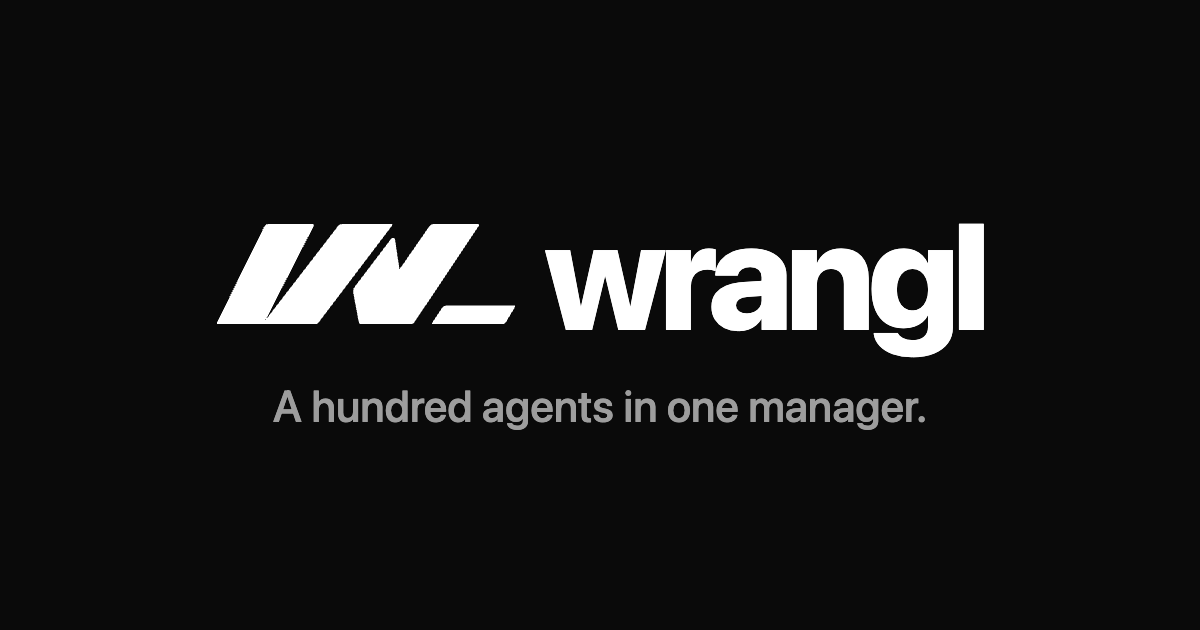
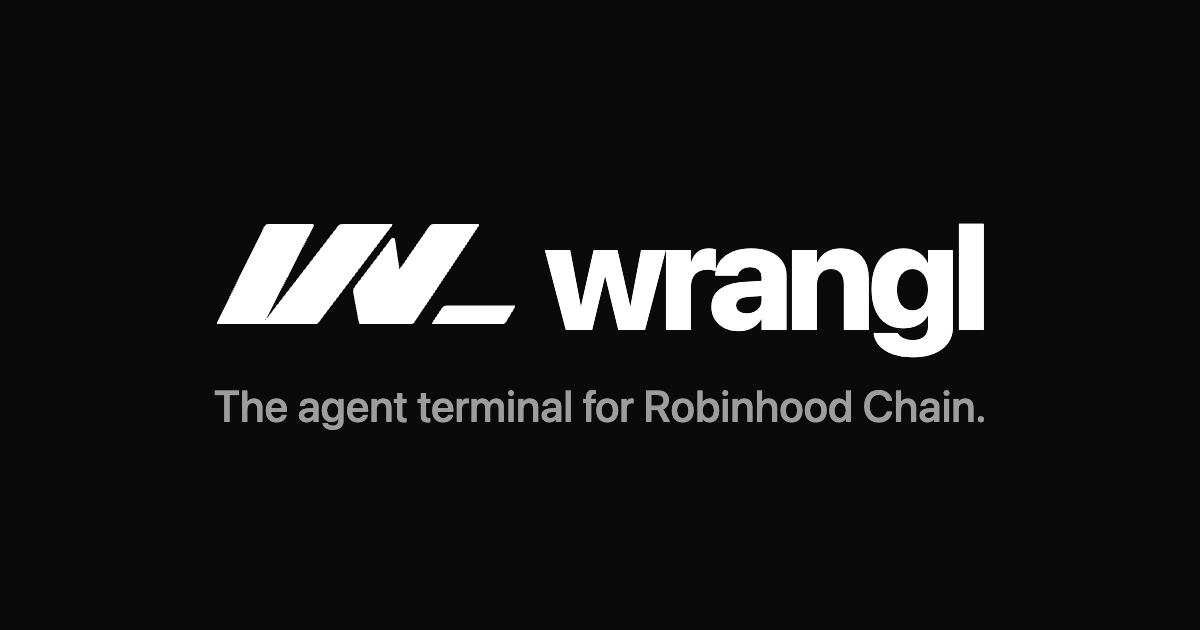
fix(landing): point seo tags at the live pages.dev origin
Canonicals, og:image, robots.txt and the sitemap pointed at wrangl.dev,
which does not resolve, so link cards on X had no image. One SITE_URL
now drives all of them; robots.txt and sitemap.xml are generated from
the prerendered pages. JSON-LD moves into the home page, drops the
stale softwareVersion and links the X and GitHub profiles. OG image
re-rendered with the current tagline.

Changed region(s): [[0.185, 0.6032, 0.8325, 0.6937]]

diff --git a/landing/index.html b/landing/index.html
@@ -3,45 +3,10 @@
   <head>
     <meta charset="UTF-8" />
     <link rel="icon" type="image/svg+xml" href="/favicon.svg" />
-    <link rel="canonical" href="https://wrangl.dev/" />
     <meta name="color-scheme" content="dark" />
     <meta name="theme-color" content="#0A0A0A" />
     <meta name="viewport" content="width=device-width, initial-scale=1.0" />
-    <title>Wrangl — the agent terminal for Robinhood Chain</title>
-    <meta name="description" content="Claude, Codex and 40+ agents in one workspace with terminals, git, SSH and a browser. They research and prepare trades on Robinhood Chain; you approve every one in your own wallet." />
-    <meta property="og:site_name" content="Wrangl" />
-    <meta property="og:url" content="https://wrangl.dev/" />
-    <meta property="og:title" content="Wrangl — the agent terminal for Robinhood Chain" />
-    <meta property="og:description" content="Claude, Codex and 40+ agents in one workspace with terminals, git, SSH and a browser. They research and prepare trades on Robinhood Chain; you approve every one in your own wallet." />
-    <meta property="og:type" content="website" />
-    <meta property="og:image" content="https://wrangl.dev/og-image.png" />
-    <meta property="og:image:width" content="1200" />
-    <meta property="og:image:height" content="630" />
-    <meta property="og:image:alt" content="Wrangl — the agent terminal for Robinhood Chain" />
-    <meta name="twitter:card" content="summary_large_image" />
-    <meta name="twitter:title" content="Wrangl — the agent terminal for Robinhood Chain" />
-    <meta name="twitter:description" content="Claude, Codex and 40+ agents in one workspace with terminals, git, SSH and a browser. They research and prepare trades on Robinhood Chain; you approve every one in your own wallet." />
-    <meta name="twitter:image" content="https://wrangl.dev/og-image.png" />
-    <!-- softwareVersion below is the latest stable release (https://github.com/wrangl-dev/wrangl/releases/latest). Update it when a new stable version ships. -->
-    <script type="application/ld+json">
-      {
-        "@context": "https://schema.org",
-        "@type": "SoftwareApplication",
-        "name": "Wrangl",
-        "applicationCategory": "DeveloperApplication",
-        "operatingSystem": "Windows, macOS, Linux",
-        "description": "Claude, Codex and 40+ agents in one workspace with terminals, git, SSH and a browser. They research and prepare trades on Robinhood Chain; you approve every one in your own wallet.",
-        "url": "https://wrangl.dev/",
-        "downloadUrl": "https://github.com/wrangl-dev/wrangl/releases/latest",
-        "softwareVersion": "0.4.52",
-        "license": "https://github.com/wrangl-dev/wrangl/blob/main/LICENSE",
-        "offers": {
-          "@type": "Offer",
-          "price": "0",
-          "priceCurrency": "USD"
-        }
-      }
-    </script>
+    <!-- Title, description, canonical, social tags and JSON-LD come from usePageMeta and the page components. -->
   </head>
   <body>
     <div id="app"></div>

diff --git a/landing/scripts/verify-prerender.ts b/landing/scripts/verify-prerender.ts
@@ -6,6 +6,7 @@
  */
 
 import fs from 'node:fs';
+import { SITE_URL } from '../src/lib/links';
 
 const lastUpdated = /Last updated:(?:<!-- -->| )*[A-Z][a-z]+ \d{1,2}, \d{4}/;
 
@@ -18,7 +19,10 @@ const checksByFile: Record<string, (string | RegExp)[]> = {
     'Check a token before you buy',
     'href="/features/"',
     'href="/install/"',
-    'rel="canonical" href="https://wrangl.dev/"',
+    `rel="canonical" href="${SITE_URL}/"`,
+    `property="og:image" content="${SITE_URL}/og-image.png"`,
+    'name="twitter:site" content="@wranglterm"',
+    '"@type":"SoftwareApplication"',
   ],
   'dist/features/index.html': [
     '<title>Features — Wrangl</title>',
@@ -26,30 +30,38 @@ const checksByFile: Record<string, (string | RegExp)[]> = {
     '44 agents. One window.',
     'Eight tools. Six read, two ask you.',
     'Claude Agent',
-    'rel="canonical" href="https://wrangl.dev/features/"',
+    `rel="canonical" href="${SITE_URL}/features/"`,
   ],
   'dist/install/index.html': [
     '<title>Install — Wrangl</title>',
     'Install Wrangl.',
     'Sign in to an agent',
     'Robinhood Chain RPC',
-    'rel="canonical" href="https://wrangl.dev/install/"',
+    `rel="canonical" href="${SITE_URL}/install/"`,
   ],
   'dist/privacy/index.html': [
     '<title>Privacy — Wrangl</title>',
     '>Privacy</h1>',
     lastUpdated,
     'no analytics',
-    'https://wrangl.dev/privacy/',
+    `${SITE_URL}/privacy/`,
   ],
   'dist/terms/index.html': [
     '<title>Terms — Wrangl</title>',
     '>Terms</h1>',
     lastUpdated,
     'MIT License',
-    'https://wrangl.dev/terms/',
+    `${SITE_URL}/terms/`,
   ],
   'dist/404.html': ['Page not found'],
+  'dist/robots.txt': [`Sitemap: ${SITE_URL}/sitemap.xml`],
+  'dist/sitemap.xml': [
+    `<loc>${SITE_URL}/</loc>`,
+    `<loc>${SITE_URL}/features/</loc>`,
+    `<loc>${SITE_URL}/install/</loc>`,
+    `<loc>${SITE_URL}/privacy/</loc>`,
+    `<loc>${SITE_URL}/terms/</loc>`,
+  ],
 };
 
 const missing: string[] = [];
@@ -59,6 +71,7 @@ for (const [file, checks] of Object.entries(checksByFile)) {
   for (const s of checks) {
     if (s instanceof RegExp ? !s.test(html) : !html.includes(s)) missing.push(`${file}: ${s}`);
   }
+  if (html.includes('wrangl.dev/')) missing.push(`${file}: points at wrangl.dev, which is not live`);
   if (html.includes('cdn.jsdelivr.net')) missing.push(`${file}: must not load anything from a CDN`);
 }
 

diff --git a/landing/scripts/write-seo-files.ts b/landing/scripts/write-seo-files.ts
@@ -1,0 +1,55 @@
+#!/usr/bin/env bun
+
+/**
+ * Post-build robots.txt and sitemap.xml writer.
+ *
+ * Both are built from SITE_URL and the prerendered pages in dist/, so they can
+ * never point at a domain the site is not served from or list a page that does
+ * not exist. Pages marked noindex (the 404) are left out.
+ */
+
+import { existsSync, readdirSync, readFileSync, statSync, writeFileSync } from 'node:fs';
+import { join, relative, sep } from 'node:path';
+import { SITE_URL } from '../src/lib/links';
+
+const BUILD_DIR = 'dist';
+
+/** URL path ("/", "/features/") for every dist/**\/index.html. */
+export function pagePaths(dir: string, root = dir): string[] {
+	const paths: string[] = [];
+	for (const entry of readdirSync(dir)) {
+		const full = join(dir, entry);
+		if (statSync(full).isDirectory()) paths.push(...pagePaths(full, root));
+		else if (entry === 'index.html') {
+			const rel = relative(root, dir).split(sep).filter(Boolean).join('/');
+			paths.push(rel ? `/${rel}/` : '/');
+		}
+	}
+	return paths.sort();
+}
+
+export function isIndexable(html: string): boolean {
+	return !/<meta[^>]+name="robots"[^>]+content="[^"]*noindex/i.test(html);
+}
+
+export function sitemapXml(site: string, paths: string[]): string {
+	const urls = paths.map((p) => `  <url><loc>${site}${p}</loc></url>`).join('\n');
+	return `<?xml version="1.0" encoding="UTF-8"?>\n<urlset xmlns="http://www.sitemaps.org/schemas/sitemap/0.9">\n${urls}\n</urlset>\n`;
+}
+
+export function robotsTxt(site: string): string {
+	return `User-agent: *\nAllow: /\n\nSitemap: ${site}/sitemap.xml\n`;
+}
+
+if (import.meta.main) {
+	if (!existsSync(BUILD_DIR)) {
+		console.error(`Missing ${BUILD_DIR}/; run the build first.`);
+		process.exit(1);
+	}
+	const paths = pagePaths(BUILD_DIR).filter((p) =>
+		isIndexable(readFileSync(join(BUILD_DIR, p, 'index.html'), 'utf8')),
+	);
+	writeFileSync(join(BUILD_DIR, 'sitemap.xml'), sitemapXml(SITE_URL, paths));
+	writeFileSync(join(BUILD_DIR, 'robots.txt'), robotsTxt(SITE_URL));
+	console.log(`✓ sitemap.xml (${paths.length} pages) and robots.txt written for ${SITE_URL}`);
+}

diff --git a/landing/src/pages/home-page.tsx b/landing/src/pages/home-page.tsx
@@ -4,17 +4,45 @@ import { HeroStage } from '../components/site/hero-stage';
 import { HomeInstall } from '../components/site/home-install';
 import { PoolList } from '../components/site/pool-list';
 import { TokenCa } from '../components/site/token-ca';
-import { LATEST_RELEASE_URL } from '../lib/links';
+import { useHead } from '@unhead/react';
+import { GITHUB_REPO_URL, LATEST_RELEASE_URL, LICENSE_URL, SITE_URL, X_URL } from '../lib/links';
 import { usePageMeta } from '../lib/page-meta';
 import { useNewPools } from '../lib/use-new-pools';
+
+const HOME_DESCRIPTION =
+  'Claude, Codex and 40+ agents in one workspace with terminals, git, SSH and a browser. They research and prepare trades on Robinhood Chain; you approve every one in your own wallet.';
+
+// Lets search engines show Wrangl as a free app and tie the site to its X and GitHub.
+// No softwareVersion: a hand-typed version goes stale with every release.
+const SOFTWARE_JSON_LD = JSON.stringify({
+  '@context': 'https://schema.org',
+  '@type': 'SoftwareApplication',
+  name: 'Wrangl',
+  applicationCategory: 'DeveloperApplication',
+  operatingSystem: 'Windows, macOS, Linux',
+  description: HOME_DESCRIPTION,
+  url: `${SITE_URL}/`,
+  downloadUrl: LATEST_RELEASE_URL,
+  license: LICENSE_URL,
+  isAccessibleForFree: true,
+  offers: { '@type': 'Offer', price: '0', priceCurrency: 'USD' },
+  author: {
+    '@type': 'Organization',
+    name: 'Wrangl',
+    url: `${SITE_URL}/`,
+    sameAs: [X_URL, GITHUB_REPO_URL],
+  },
+});
 
 export function HomePage() {
   usePageMeta({
     title: 'Wrangl — the agent terminal for Robinhood Chain',
-    description:
-      'Claude, Codex and 40+ agents in one workspace with terminals, git, SSH and a browser. They research and prepare trades on Robinhood Chain; you approve every one in your own wallet.',
+    description: HOME_DESCRIPTION,
     path: '/',
     robots: 'index,follow',
+  });
+  useHead({
+    script: [{ type: 'application/ld+json', textContent: SOFTWARE_JSON_LD }],
   });
   const pools = useNewPools(true);
 

diff --git a/landing/scripts/write-seo-files.test.ts b/landing/scripts/write-seo-files.test.ts
@@ -1,0 +1,22 @@
+import { describe, expect, test } from 'bun:test';
+import { isIndexable, robotsTxt, sitemapXml } from './write-seo-files';
+
+describe('write-seo-files', () => {
+	test('noindex pages are not indexable', () => {
+		expect(isIndexable('<meta name="robots" content="noindex,nofollow">')).toBe(false);
+		expect(isIndexable('<meta name="robots" content="index,follow">')).toBe(true);
+		expect(isIndexable('<title>No robots tag</title>')).toBe(true);
+	});
+
+	test('sitemap lists each path under the site origin', () => {
+		const xml = sitemapXml('https://example.pages.dev', ['/', '/features/']);
+		expect(xml).toContain('<loc>https://example.pages.dev/</loc>');
+		expect(xml).toContain('<loc>https://example.pages.dev/features/</loc>');
+	});
+
+	test('robots.txt points at the sitemap on the same origin', () => {
+		expect(robotsTxt('https://example.pages.dev')).toContain(
+			'Sitemap: https://example.pages.dev/sitemap.xml',
+		);
+	});
+});

diff --git a/landing/src/lib/page-meta.ts b/landing/src/lib/page-meta.ts
@@ -1,7 +1,7 @@
 import { useHead, useSeoMeta } from '@unhead/react';
+import { SITE_URL, X_HANDLE } from './links';
 
-const SITE = 'https://wrangl.dev';
-const OG_IMAGE = `${SITE}/og-image.png`;
+const OG_IMAGE = `${SITE_URL}/og-image.png`;
 
 type PageMeta = {
   title: string;
@@ -13,7 +13,7 @@ type PageMeta = {
 
 /** Title, description, canonical and social tags for one page. */
 export function usePageMeta({ title, description, path, robots }: PageMeta) {
-  const url = path ? `${SITE}${path}` : undefined;
+  const url = path ? `${SITE_URL}${path}` : undefined;
   useSeoMeta({
     title,
     description,
@@ -28,6 +28,7 @@ export function usePageMeta({ title, description, path, robots }: PageMeta) {
     ogImageHeight: 630,
     ogImageAlt: title,
     twitterCard: 'summary_large_image',
+    twitterSite: X_HANDLE,
     twitterTitle: title,
     twitterDescription: description,
     twitterImage: OG_IMAGE,

diff --git a/landing/src/lib/links.ts b/landing/src/lib/links.ts
@@ -1,7 +1,11 @@
+// Where this site is served. wrangl.dev is not bought yet, so canonicals, social
+// cards, robots.txt and the sitemap all point at the Pages URL. Change it here only.
+export const SITE_URL = 'https://wrangl-landing.pages.dev';
 export const GITHUB_REPO_URL = 'https://github.com/wrangl-dev/wrangl';
+export const X_HANDLE = '@wranglterm';
 export const X_URL = 'https://x.com/wranglterm';
 export const LATEST_RELEASE_URL = `${GITHUB_REPO_URL}/releases/latest`;
-// Until wrangl.dev is bought the docs live on their own Pages project.
+// The docs live on their own Pages project.
 export const DOCS_URL = 'https://wrangl-docs.pages.dev/docs/';
 export const CHANGELOG_URL = `${DOCS_URL}changelog`;
 export const REPORT_BUG_URL = `${DOCS_URL}troubleshooting/report-a-problem`;

diff --git a/landing/src/routes/PrivacyPage.tsx b/landing/src/routes/PrivacyPage.tsx
@@ -5,7 +5,7 @@ import {
   LegalSection,
 } from '../components/legal/LegalPage';
 import { LEGAL_LAST_UPDATED } from '../lib/legal';
-import { GITHUB_REPO_URL, ISSUES_URL } from '../lib/links';
+import { GITHUB_REPO_URL, ISSUES_URL, SITE_URL } from '../lib/links';
 
 export function PrivacyPage() {
   return (
@@ -17,7 +17,7 @@ export function PrivacyPage() {
     >
       <LegalSection title="Summary">
         <p>
-          Wrangl is a free, open-source desktop app. This website (wrangl.dev)
+          Wrangl is a free, open-source desktop app. This website ({new URL(SITE_URL).host})
           is a static site. It has no analytics, no cookies, and no forms, and
           it stores nothing about you. Details below.
         </p>

diff --git a/landing/react-ssg.config.ts b/landing/react-ssg.config.ts
@@ -1,10 +1,11 @@
 import { defineReactSsgConfig } from 'vite-plugin-react-ssg'
 
+import { SITE_URL } from './src/lib/links'
 import { routes } from './src/routes'
 
 export default defineReactSsgConfig({
   history: 'browser',
-  origin: 'https://wrangl.dev',
+  origin: SITE_URL,
   routes,
   // The `*` route is not discovered automatically; prerender it once so the
   // build can ship it as dist/404.html (see scripts/write-404.ts).
